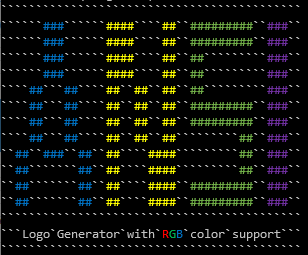
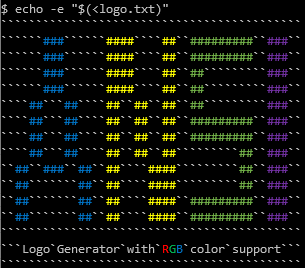
update readme

diff --git a/README.md b/README.md
@@ -2,9 +2,11 @@
 
 Create ANSI art/logos by drawing them in Microsoft Excel. This would make for a fun addition to your cli projects, or a splash screen for a program (provided you know the user's terminal supports truecolor, more on that below).
 
+![Clean Logo](media/clean-logo.png)
+
 ## Requirements
 
-Microsoft Excel with macros enabled. This was created using a 2019 version of Excel on Windows, but is likely to work with much older versions as well.
+Microsoft Excel with macros enabled. This was created using a 2019 version of Excel on Windows, but is likely to work on much older versions as well.
 
 ## Code
 
@@ -21,7 +23,7 @@ To view the code press `Alt` and `F11` to open the VBA editor
 1. Draw your logo/spash screen by highlighting cells and typing characters
    * Enter a character into a cell where you would like it to appear. It is recommeneded that each cell contains at most 1 character
    * Highlight cells the color you would like the character in that position to be
-6. Set the width and height of the drawing in cells `AL1` and `AS1`
+1. Set the width and height of the drawing in cells `AL1` and `AS1`
 1. Click `Generate Screen` to generate the logo with included ANSI escape characters
 1. Click `Copy to clipboard` to copy the generated logo
 
@@ -32,10 +34,24 @@ No | Yes | Cell value with default color
 Yes | No | "Fill Char" with cell highlight color
 Yes | Yes | Cell value with cell highlight color
 
-The above drawing produces the following result. Note that the backtick character `` ` `` has been input into "Blank Char" which gives the following 'background'. Using a space instead would give a cleaner looking background if preferred. The cells containing the letters `R`, `G` and `B` are colored to make these characters the corresponding color when printed.
+The above drawing produces the following result. Note that the backtick character `` ` `` has been input into "Blank Char" which gives the following 'background'. Using a single space instead would give the cleaner looking background shown above. The cells containing the letters `R`, `G` and `B` are colored to make these characters the corresponding color when printed.
 
 ![ANSI Logo](media/Output.png)
 
+The actual escape sequence generated is shown below
+
+<details>
+
+<summary>Full escape sequence</summary>
+
+```
+\e[0m```````````````````````````````````````````\n\e[0m``````\e[38;2;0;112;192m###\e[0m``````\e[38;2;255;255;0m####\e[0m````\e[38;2;255;255;0m##\e[0m``\e[38;2;112;173;71m#########\e[0m``\e[38;2;112;48;160m###\e[0m``\n\e[0m``````\e[38;2;0;112;192m###\e[0m``````\e[38;2;255;255;0m####\e[0m````\e[38;2;255;255;0m##\e[0m``\e[38;2;112;173;71m#########\e[0m``\e[38;2;112;48;160m###\e[0m``\n\e[0m``````\e[38;2;0;112;192m###\e[0m``````\e[38;2;255;255;0m####\e[0m````\e[38;2;255;255;0m##\e[0m``\e[38;2;112;173;71m##\e[0m`````````\e[38;2;112;48;160m###\e[0m``\n\e[0m``````\e[38;2;0;112;192m###\e[0m``````\e[38;2;255;255;0m####\e[0m````\e[38;2;255;255;0m##\e[0m``\e[38;2;112;173;71m##\e[0m`````````\e[38;2;112;48;160m###\e[0m``\n\e[0m````\e[38;2;0;112;192m##\e[0m```\e[38;2;0;112;192m##\e[0m````\e[38;2;255;255;0m##\e[0m``\e[38;2;255;255;0m##\e[0m``\e[38;2;255;255;0m##\e[0m``\e[38;2;112;173;71m##\e[0m`````````\e[38;2;112;48;160m###\e[0m``\n\e[0m````\e[38;2;0;112;192m##\e[0m```\e[38;2;0;112;192m##\e[0m````\e[38;2;255;255;0m##\e[0m``\e[38;2;255;255;0m##\e[0m``\e[38;2;255;255;0m##\e[0m``\e[38;2;112;173;71m#########\e[0m``\e[38;2;112;48;160m###\e[0m``\n\e[0m````\e[38;2;0;112;192m##\e[0m```\e[38;2;0;112;192m##\e[0m````\e[38;2;255;255;0m##\e[0m``\e[38;2;255;255;0m##\e[0m``\e[38;2;255;255;0m##\e[0m``\e[38;2;112;173;71m#########\e[0m``\e[38;2;112;48;160m###\e[0m``\n\e[0m````\e[38;2;0;112;192m##\e[0m```\e[38;2;0;112;192m##\e[0m````\e[38;2;255;255;0m##\e[0m``\e[38;2;255;255;0m##\e[0m``\e[38;2;255;255;0m##\e[0m`````````\e[38;2;112;173;71m##\e[0m``\e[38;2;112;48;160m###\e[0m``\n\e[0m``\e[38;2;0;112;192m##\e[0m``\e[38;2;0;112;192m###\e[0m``\e[38;2;0;112;192m##\e[0m``\e[38;2;255;255;0m##\e[0m````\e[38;2;255;255;0m####\e[0m`````````\e[38;2;112;173;71m##\e[0m``\e[38;2;112;48;160m###\e[0m``\n\e[0m``\e[38;2;0;112;192m##\e[0m```````\e[38;2;0;112;192m##\e[0m``\e[38;2;255;255;0m##\e[0m````\e[38;2;255;255;0m####\e[0m`````````\e[38;2;112;173;71m##\e[0m``\e[38;2;112;48;160m###\e[0m``\n\e[0m``\e[38;2;0;112;192m##\e[0m```````\e[38;2;0;112;192m##\e[0m``\e[38;2;255;255;0m##\e[0m````\e[38;2;255;255;0m####\e[0m``\e[38;2;112;173;71m#########\e[0m``\e[38;2;112;48;160m###\e[0m``\n\e[0m``\e[38;2;0;112;192m##\e[0m```````\e[38;2;0;112;192m##\e[0m``\e[38;2;255;255;0m##\e[0m````\e[38;2;255;255;0m####\e[0m``\e[38;2;112;173;71m#########\e[0m``\e[38;2;112;48;160m###\e[0m``\n\e[0m```````````````````````````````````````````\n\e[0m```Logo`Generator`with`\e[38;2;255;0;0mR\e[38;2;0;176;80mG\e[38;2;0;112;192mB\e[0m`color`support```\n\e[0m```````````````````````````````````````````\n
+
+```
+
+</details>
+
+Make sure to output the sequence to a terminal with escape characters enabled, i.e. using `echo -e` in bash instead of just `echo`
 
 ## Compatability
 
@@ -51,8 +67,8 @@ Not all terminals support this format, though many do. [Here](https://gist.githu
 
 ## Why Excel
 
-The spreadsheet in excel make for a convenient GUI for 'drawing' logos one character at a time, which can then be processed with VBA commands to produce the ANSI sequence.
+The spreadsheet in excel makes for a convenient interface for 'drawing' logos one character at a time, which can then be processed with VBA commands to produce the ANSI sequence.
 
 ## Known Issues
 
-Placing `\` in certain positions in the drawing may cause double backslashes to appear in the output, ie `\\e[38;2;R;G;Bm` which can lead to undesired behaviour such as the actual escape sequence appearing when outputting to a terminal.
+Placing `\` in certain positions in the drawing may cause double backslashes to appear in the output, i.e. `\\e[0m` which can lead to undesired behaviour such as the actual escape sequence appearing when outputting to a terminal.
